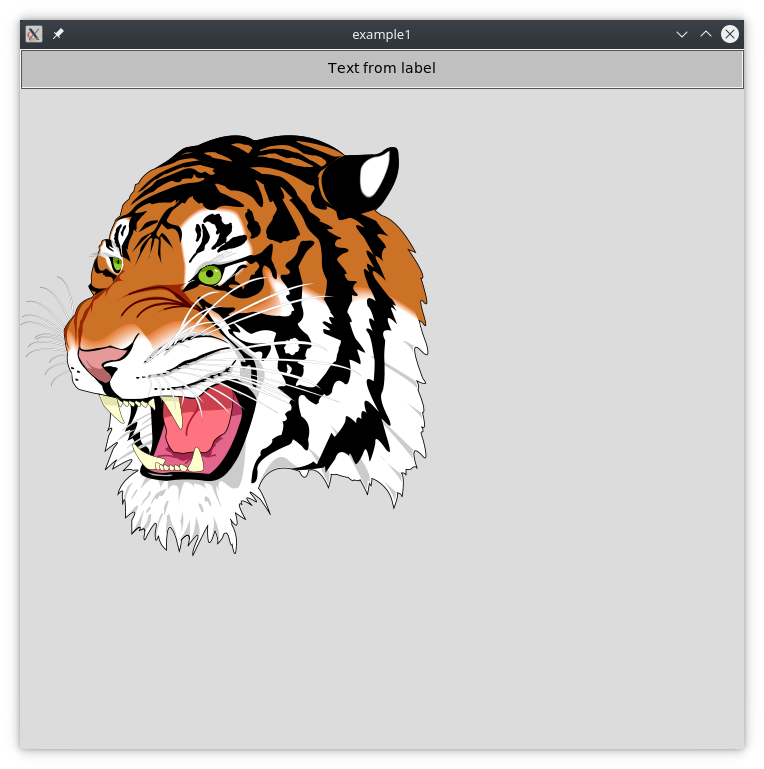
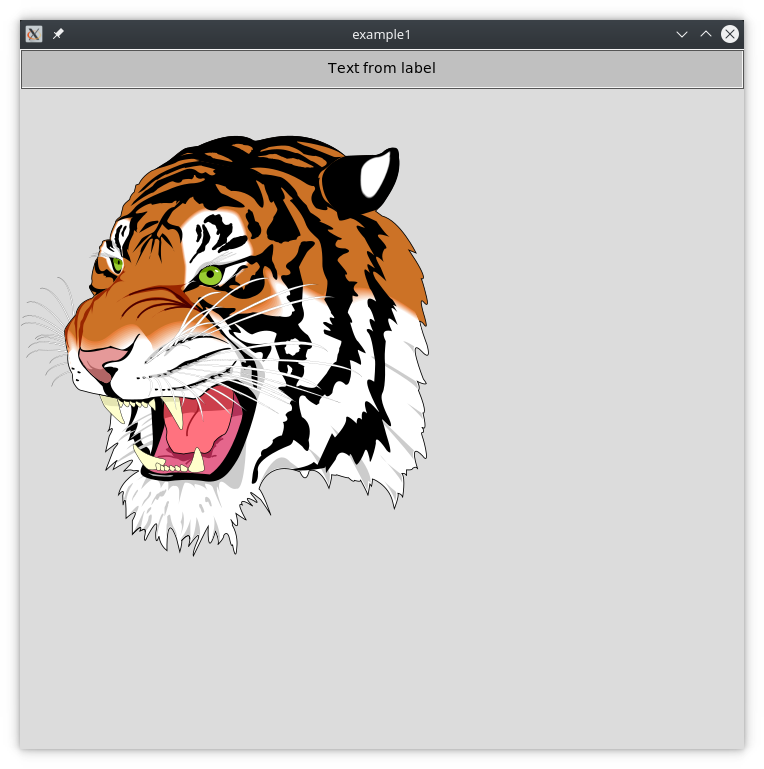
some fixes

diff --git a/example1.cpp b/example1.cpp
@@ -74,9 +74,9 @@ void capture(Fl_Widget* const wi, char const* const filename)
 
   // capture
   Fl_Image_Surface fis(w, h);
+
   fis.set_current();
   fis.draw(wi);
-
   Fl_Display_Device::display_device()->set_current();
 
   // convert
@@ -85,7 +85,7 @@ void capture(Fl_Widget* const wi, char const* const filename)
   auto src(fis.image()->data()[0]);
   auto dst(cairo_image_surface_get_data(surf));
 
-  for (auto pixels(w * h); pixels--; src += 3, dst += 4)
+  for (auto const end(src + 3 * w * h); end != src; src += 3, dst += 4)
   {
     dst[0] = src[2];
     dst[1] = src[1];
